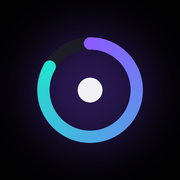
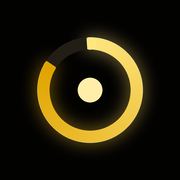
Add files via upload

diff --git a/style.css b/style.css
@@ -1,17 +1,18 @@
 :root {
-  --bg: #050507;
+  --bg: #060504;
   --card: rgba(255, 255, 255, 0.035);
   --line: rgba(255, 255, 255, 0.07);
-  --text: #f2f2f5;
-  --muted: #7d7d8c;
-  --a1: #8b5cff;
-  --a2: #22e1d0;
-  --glow: rgba(139, 92, 255, 0.45);
+  --text: #f6f1e4;
+  --muted: #8a8172;
+  /* 24k gold */
+  --a1: #ffe680;
+  --a2: #e0a400;
+  --glow: rgba(255, 196, 40, 0.45);
   --font: -apple-system, "SF Pro Display", "Inter", "Segoe UI", Roboto, sans-serif;
 }
 
-/* Over the goal: gold */
-body.monster { --a1: #ffcc4d; --a2: #ff6b3d; --glow: rgba(255, 170, 60, 0.5); }
+/* Over the goal: the gold flares up brighter */
+body.monster { --a1: #fff6c8; --a2: #ffb300; --glow: rgba(255, 210, 80, 0.75); }
 
 * { box-sizing: border-box; -webkit-tap-highlight-color: transparent; }
 html, body { margin: 0; background: var(--bg); color: var(--text); font-family: var(--font); }
@@ -44,7 +45,7 @@ svg { width: 18px; height: 18px; fill: none; stroke: currentColor; stroke-width:
 .top { display: flex; align-items: center; justify-content: space-between; height: 44px; }
 .logo { font-weight: 800; letter-spacing: .22em; font-size: 13px; display: flex; align-items: center; gap: 8px; }
 .logo b { background: linear-gradient(90deg, var(--a1), var(--a2)); -webkit-background-clip: text; background-clip: text; color: transparent; margin-left: 4px; }
-.logo .dot { width: 8px; height: 8px; border-radius: 50%; background: #3a3a46; box-shadow: 0 0 0 0 transparent; transition: .3s; }
+.logo .dot { width: 8px; height: 8px; border-radius: 50%; background: #3a352a; box-shadow: 0 0 0 0 transparent; transition: .3s; }
 body.running .logo .dot { background: var(--a2); box-shadow: 0 0 12px var(--a2); animation: blink 1.6s infinite; }
 .chips { display: flex; gap: 8px; }
 .chip {
@@ -52,7 +53,7 @@ body.running .logo .dot { background: var(--a2); box-shadow: 0 0 12px var(--a2);
   background: var(--card); border: 1px solid var(--line); font-weight: 700; font-size: 14px;
   font-variant-numeric: tabular-nums;
 }
-.chip svg { width: 16px; height: 16px; color: #ff8a3d; fill: rgba(255, 138, 61, .25); }
+.chip svg { width: 16px; height: 16px; color: var(--a1); fill: color-mix(in srgb, var(--a2) 30%, transparent); filter: drop-shadow(0 0 4px var(--glow)); }
 .chip.icon { width: 34px; padding: 0; justify-content: center; }
 .chip.icon svg { color: var(--muted); fill: none; }
 
@@ -92,12 +93,12 @@ body.running .status { color: var(--a2); text-shadow: 0 0 12px var(--a2); }
 .main-btn {
   width: 100%; margin: 22px 0 18px; padding: 16px 18px; border-radius: 22px; display: flex; align-items: center; gap: 14px;
   text-align: left; background: linear-gradient(135deg, var(--a1), var(--a2));
-  color: #08080b; box-shadow: 0 14px 40px var(--glow), inset 0 1px 0 rgba(255, 255, 255, .35);
+  color: #140f05; box-shadow: 0 14px 40px var(--glow), inset 0 1px 0 rgba(255, 255, 255, .35);
   transition: transform .15s, box-shadow .3s, background .3s;
 }
 .main-btn:active { transform: scale(.98); }
 body.running .main-btn {
-  background: #121218; color: var(--text);
+  background: #12100b; color: var(--text);
   box-shadow: 0 0 0 1px color-mix(in srgb, var(--a2) 45%, transparent), 0 14px 40px rgba(0, 0, 0, .5);
 }
 .btn-icon {
@@ -181,7 +182,7 @@ body.running .btn-icon { background: color-mix(in srgb, var(--a2) 16%, transpare
 .sheet { position: fixed; inset: 0; z-index: 10; background: rgba(0, 0, 0, .55); backdrop-filter: blur(6px); display: flex; align-items: flex-end; }
 .sheet-card {
   width: 100%; max-width: 480px; margin: 0 auto; padding: 10px 20px calc(24px + env(safe-area-inset-bottom));
-  border-radius: 26px 26px 0 0; background: #101016; border: 1px solid var(--line); animation: up .3s cubic-bezier(.2, .8, .2, 1);
+  border-radius: 26px 26px 0 0; background: #100e0a; border: 1px solid var(--line); animation: up .3s cubic-bezier(.2, .8, .2, 1);
 }
 .grabber { width: 40px; height: 5px; border-radius: 3px; background: #2b2b36; margin: 0 auto 14px; }
 .sheet-card h2 { margin: 0 0 16px; font-size: 20px; }
@@ -195,7 +196,7 @@ body.running .btn-icon { background: color-mix(in srgb, var(--a2) 16%, transpare
 }
 .file-btn input { display: none; }
 .sheet-actions .danger { color: #ff5c7a; }
-.close { width: 100%; margin-top: 8px; padding: 14px; border-radius: 14px; background: linear-gradient(135deg, var(--a1), var(--a2)); color: #08080b; font-weight: 800; }
+.close { width: 100%; margin-top: 8px; padding: 14px; border-radius: 14px; background: linear-gradient(135deg, var(--a1), var(--a2)); color: #140f05; font-weight: 800; }
 
 .toast {
   position: fixed; left: 50%; top: calc(14px + env(safe-area-inset-top)); z-index: 20; transform: translate(-50%, -140%);

diff --git a/app.js b/app.js
@@ -8,12 +8,12 @@ const RING = 2 * Math.PI * 96;
 const WEEKDAYS = ['Вс', 'Пн', 'Вт', 'Ср', 'Чт', 'Пт', 'Сб'];
 const MONTHS = ['января', 'февраля', 'марта', 'апреля', 'мая', 'июня', 'июля', 'августа', 'сентября', 'октября', 'ноября', 'декабря'];
 const QUOTES = [
-  'Дисциплина — это делать, когда не хочется.',
+  'Дисциплина - это делать, когда не хочется.',
   'Пока ты отдыхаешь, кто-то тренируется.',
   'Один час фокуса лучше трёх часов «почти работы».',
   'Ты не должен быть мотивирован. Ты должен быть последователен.',
-  'Маленькие шаги каждый день — большие результаты через год.',
-  'Сложно сейчас — легко потом.',
+  'Маленькие шаги каждый день, большие результаты через год.',
+  'Сложно сейчас, легко потом.',
   'Не ломай цепочку.',
 ];
 const ICON_PLAY = '<svg viewBox="0 0 24 24"><path d="M8 5.5v13a1 1 0 0 0 1.5.86l10.5-6.5a1 1 0 0 0 0-1.72L9.5 4.64A1 1 0 0 0 8 5.5Z"/></svg>';
@@ -106,7 +106,7 @@ function render() {
   const last = state.sessions.at(-1);
   $('btnIcon').innerHTML = live ? ICON_PAUSE : ICON_PLAY;
   $('btnLabel').textContent = live ? 'ПАУЗА' : today ? 'ПРОДОЛЖИТЬ' : 'НАЧАТЬ';
-  $('btnHint').textContent = live ? `Сессия ${clock(now - last.s)}` : today ? 'Вернулся? Жми — время продолжится' : 'Нажми, когда садишься работать';
+  $('btnHint').textContent = live ? `Сессия ${clock(now - last.s)}` : today ? 'Вернулся? Жми, и время продолжится' : 'Нажми, когда садишься работать';
 
   renderStats(map, now, goalMs);
   renderBars(map, now, goalMs);

diff --git a/index.html b/index.html
@@ -4,7 +4,7 @@
   <meta charset="utf-8">
   <meta name="viewport" content="width=device-width, initial-scale=1, viewport-fit=cover, user-scalable=no">
   <title>Locked In</title>
-  <meta name="theme-color" content="#050507">
+  <meta name="theme-color" content="#060504">
   <meta name="apple-mobile-web-app-capable" content="yes">
   <meta name="mobile-web-app-capable" content="yes">
   <meta name="apple-mobile-web-app-status-bar-style" content="black-translucent">
